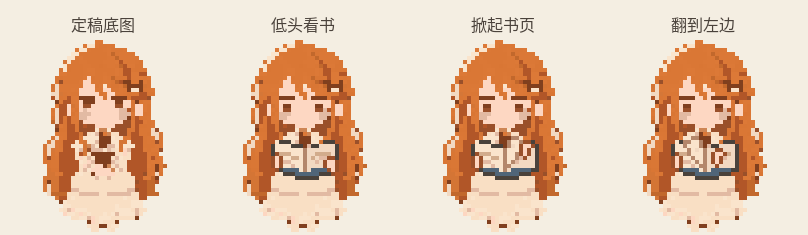
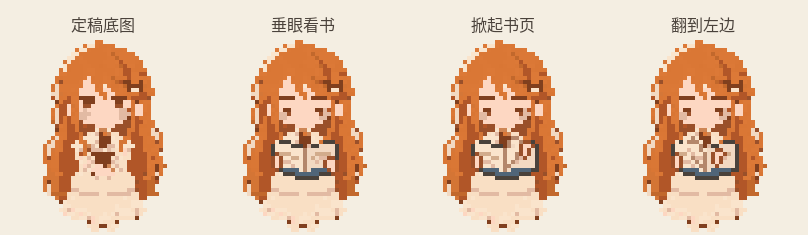
Refine Xiaoke's reading gaze and preview the error reaction

diff --git a/design/incoming/pet/xiaoke/README.md b/design/incoming/pet/xiaoke/README.md
@@ -21,12 +21,14 @@
 
 `notification/` 有三帧，分别停留 900／170／650 ms。以 `idle/01.png` 为底，举起一只手，轻抬后停住等候。[逐帧对照](notification-preview.png) · [循环 GIF](notification.gif)
 
-## 完成（基本通过，已修笑嘴）
+## 完成（通过）
 
 `attention/` 有三帧，分别停留 300／240／440 ms，播放一次。以 `idle/01.png` 为底，局部改出笑眼和三像素宽的小弧形笑嘴，两颗小星星升起后淡出。[逐帧对照](attention-preview.png) · [GIF](attention.gif)
 
-## 工作预览（待确认）
+## 工作（通过，已微调）
 
-`working/` 有三帧，分别停留 780／200／260 ms，循环播放。以 `idle/01.png` 为底，视线向下，一手捧着摊开的书，另一手把右页翻向左边。[逐帧对照](working-preview.png) · [循环 GIF](working.gif)
+`working/` 有三帧，分别停留 780／200／260 ms，循环播放。以 `idle/01.png` 为底，瞳孔往下移一格，一手捧着摊开的书，另一手把右页翻向左边。第三帧用两条细线表示纸页。[逐帧对照](working-preview.png) · [循环 GIF](working.gif)
 
-确认后做 error。
+## 出错预览（待确认）
+
+`error/` 有三帧，分别停留 200／300／560 ms，播放一次。以 `idle/01.png` 为底，换成 × 眼和小波浪嘴，右上方冒出一个问号。[逐帧对照](error-preview.png) · [GIF](error.gif)

diff --git a/docs/STATUS.md b/docs/STATUS.md
@@ -57,5 +57,5 @@
 ## C7 宠物预览
 
 - 肉包已定稿并打成内置包 `App/Pets/roubao/`，共 14 个状态、42 帧，署名「lllhr94」、授权「仅限 Clio 使用」。GitHub Actions iOS 编译已通过（`shots=false`）。
-- 小克（宠物包 ID `xiaoke`）的闲坐与思考共六帧已定稿，以调成橘发的最早版本为底。睡觉已通过，按反馈把右上飘的 z 换成 4×4；等批准已通过。完成基本通过，按反馈把笑嘴画得更清楚。工作已交三帧读书翻页预览与 GIF，待确认后再做出错。
+- 小克（宠物包 ID `xiaoke`）的闲坐与思考共六帧已定稿，以调成橘发的最早版本为底。睡觉已通过，按反馈把右上飘的 z 换成 4×4；等批准已通过。完成和工作已通过，工作按反馈下移瞳孔并整理第三帧书页。出错已交三帧 × 眼和问号预览与 GIF，待主人确认。
 - C9 的小克引导插画等宠物状态定稿后再按柔和初版调整。C5 的头像接入可用已定稿的肉包验证。
